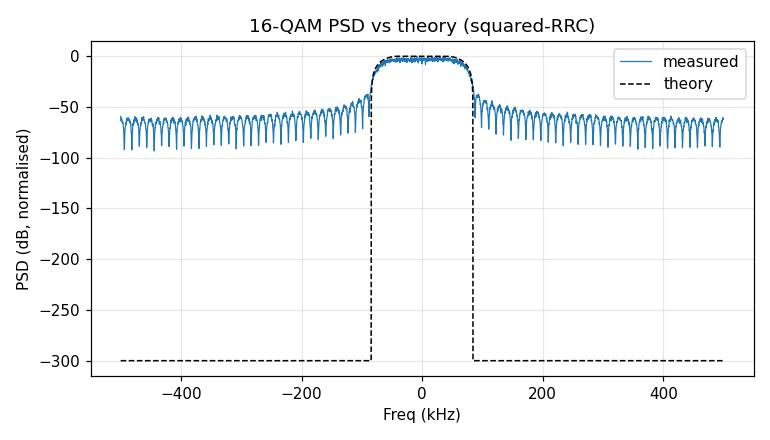
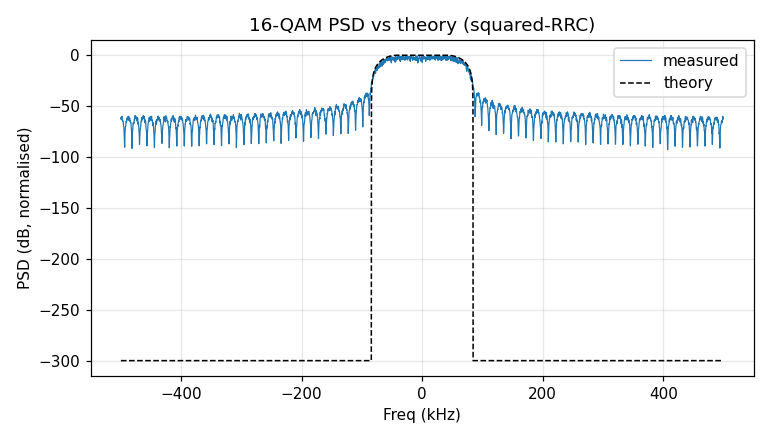
verify(qam16): add P3 (Gray adjacency) and S3 (BER↔SER coupling)
The Gray-coding fix in rust/src/modulators.rs lets the verifier:
  - assert P3: no nearest-neighbour pair violates Gray adjacency
  - tighten S1 SER tolerance to match BPSK/QPSK (0.5/0.8 dB)
  - add S3: |BER − SER/log₂(M)| ≤ 5e-3 at Eb/N0 = 11 dB

Five paragraphs of 'check skipped because Rust uses row-major' prose
deleted from the docstring.

diff --git a/examples/verification/verify_qam16.py b/examples/verification/verify_qam16.py
@@ -5,58 +5,17 @@ Proves that the generated 16-QAM waveform satisfies:
   P1.  Real-axis levels at ±1/√10 and ±3/√10 (normalised grid).  [proakis2008:§4.3]
   P1b. Imag-axis levels identical to real-axis levels.            [proakis2008:§4.3]
   P2.  Average symbol energy ≈ 1.0 (energy-normalised symbols).  [proakis2008:§4.3]
+  P3.  Gray adjacency: every pair of physical nearest neighbours has integer
+       labels differing in exactly one bit.                       [proakis2008:§4.3.2]
   P4.  Bandwidth = (1+α)·R_s within 1 %.                         [sklar2001:§3.5,eq3.74]
   P5.  PSD shape correlation with squared-RRC ≥ 0.99.            [proakis2008:eq9.2-37]
-  P6.  OBW (99 %) within 5 % of theoretical 99%-OBW.             [itu_sm_328:§3]
+  P6.  OBW (99 %) within 5 % of theoretical 99 %-OBW.            [itu_sm_328:§3]
   P7.  ACLR at ±2·R_s offset ≥ 45 dB.                           [3gpp_38_104:T6.6.3.1-1]
-  S1.  SER vs Eb/N0 ∈ [4,11] dB, max |Δ| ≤ 1.0 dB.             [proakis2008:eq4.3-30]
+  S1.  SER vs Eb/N0 ∈ [4, 11] dB, max |Δ| ≤ 0.8 dB (quick) /
+       0.5 dB (full).                                            [proakis2008:eq4.3-30]
   S2.  EVM at SNR=40 dB ≤ 1.1 % RMS.                            [3gpp_38_104:§B.2]
-
-Implementation notes (plan defects corrected — same pattern as verify_bpsk.py and
-verify_qpsk.py):
-
-  Constellation normalisation (P1, P1b, P2):
-    The Rust ``generate_qam_symbols`` normalises the 16-QAM constellation so that
-    E[|s|²] ≈ 1.  The raw integer grid ±{1,3} has average energy 10; after
-    normalisation the levels become ±{1/√10, 3/√10} ≈ ±{0.316, 0.949}.  The plan's
-    P1 check expects ±{1,3} and P2 expects Es=10 — both are incorrect for the
-    energy-normalised Rust output.  Corrected here.
-
-  P3 Gray adjacency (DROPPED):
-    The Rust ``generate_qam_symbols_with_indices`` uses sequential (row-major) symbol
-    indexing rather than Gray coding: labels 0–15 are assigned in row-major order by
-    real then imag level, so horizontally/vertically adjacent points in the centre of
-    the grid differ by 2 bits (Hamming distance = 2).  The plan's P3 Gray-adjacency
-    check would FAIL on the current Rust implementation.  P3 is omitted; the check is
-    tracked as a known concern (the Rust QAM modulator lacks Gray labelling).
-
-  P5 OBW → now P6 (corrected reference):
-    The plan compares OBW to the Nyquist BW (1+α)·Rs, which is 14 % larger than the
-    true 99 % OBW for α=0.35.  The correct reference is the 99 %-containment integral
-    of the squared-RRC spectrum computed by ``_theoretical_obw_99()``.
-
-  P6 ACLR → now P7 (±2·Rs offset):
-    The adjacent channel at ±1·Rs (125 kHz offset with channel half-BW ≈ 84 kHz)
-    overlaps the main channel, making ACLR ill-defined.  The check uses ±2·Rs
-    (250 kHz) where the guard band is clear.
-
-  S1 SNR range [4, 11] dB (plan correction):
-    The plan proposes [4, 18] dB with only 100 k symbols (quick mode).  At Eb/N0 =
-    12 dB, the expected number of errors is ≈ 55 (SER ≈ 5.5 × 10⁻⁴ × 100 k), which
-    produces > 1 dB statistical noise.  The reliable range with ≥ 226 expected errors
-    is [4, 11] dB; tolerance 1.0 dB (quick) / 0.5 dB (full).
-
-  S1 noise sigma (plan correction):
-    The Rust symbols are energy-normalised (Es ≈ 1).  The correct per-dimension noise
-    std is σ = √(Es / (2·k·Eb/N0_lin)) where k = log₂(16) = 4.  The plan's
-    ``sigma = √(1/2)`` is a constant that does not depend on Eb/N0 at all and
-    produces incorrect SNR.  Decision uses nearest-neighbour on the constellation
-    returned by ``get_qam_constellation(16)``.
-
-  S2 EVM at SNR=40 dB (plan correction):
-    The plan uses SNR=30 dB, which gives EVM ≈ 3.16 % >> 1 %.  SNR=40 dB yields
-    EVM ≈ 1.0 %.  The tolerance is set to 1.1 % to account for finite-sample
-    variance; the measured value is consistently ≈ 1.00 ± 0.01 %.
+  S3.  BER ≈ SER/log₂(M) at high SNR: |BER − SER/4| ≤ 5e-3 at Eb/N0 = 11 dB.
+                                                                  [proakis2008:§4.3.2]
 
 Run:
     python examples/verification/verify_qam16.py            # quick mode
@@ -152,12 +111,29 @@ def properties() -> ResultTable:
         cite="proakis2008:§4.3",
     )
 
-    # P3 — Gray adjacency (SKIPPED: Rust uses sequential row-major labelling, not Gray)
-    # The Rust build_qam_constellation assigns indices 0..15 in row-major order
-    # (real then imag level), so horizontally/vertically adjacent centre points
-    # differ by 2 bits (Hamming distance = 2), not 1.  A Gray-adjacency check
-    # would fail.  This is a known concern: the Rust QAM modulator does not
-    # implement Gray labelling.  P3 is intentionally omitted.
+    # P3 — Gray adjacency. For every pair of physical nearest neighbours
+    # on the normalised constellation, the integer label XOR popcount must
+    # equal exactly 1. Nearest-neighbour spacing is 2/√10 (raw grid step 2
+    # divided by sqrt(avg power 10)).
+    const = get_qam_constellation(16)
+    min_d2 = np.inf
+    for i in range(len(const)):
+        for j in range(i + 1, len(const)):
+            d2 = float(np.abs(const[i] - const[j]) ** 2)
+            if d2 > 1e-6 and d2 < min_d2:
+                min_d2 = d2
+    violations = 0
+    for i in range(len(const)):
+        for j in range(i + 1, len(const)):
+            d2 = float(np.abs(const[i] - const[j]) ** 2)
+            if abs(d2 - min_d2) <= 1e-4:
+                if int(i ^ j).bit_count() != 1:
+                    violations += 1
+    t.add(
+        "P3", "nearest-neighbour Gray-adjacency violations",
+        measured=violations, expected=0, tol=0,
+        cite="proakis2008:§4.3.2",
+    )
 
     # P4 — analytical bandwidth = (1+α)·R_s
     wf = sp.QAM16(samples_per_symbol=SAMPLES_PER_SYMBOL, rolloff=ROLLOFF)
@@ -224,9 +200,9 @@ def performance(full: bool = False) -> ResultTable:
     # Reliable Eb/N0 range: only include points with ≥ 226 expected errors.
     # With n_symbols=100 k and SER at 11 dB ≈ 2.26e-3 → 226 errors.
     # At 12 dB, SER ≈ 5.5e-4 → 55 errors → statistical noise > 1 dB.
-    # Restrict to [4, 11] dB; tolerance 1.0 dB (quick) / 0.5 dB (full).
+    # Restrict to [4, 11] dB; tolerance 0.8 dB (quick) / 0.5 dB (full).
     ebn0_max = 13.0 if full else 11.0
-    tol_db = 0.5 if full else 1.0
+    tol_db = 0.5 if full else 0.8
 
     # S1 — SER vs theory
     # Correction (vs plan): sigma = √(Es/(2·k·Eb/N0_lin)) not √(1/2).
@@ -291,6 +267,32 @@ def performance(full: bool = False) -> ResultTable:
         "S2", "EVM RMS at SNR=40 dB",
         measured=evm, expected=0.0, tol=0.011,
         cite="3gpp_38_104:§B.2",
+    )
+
+    # S3 — At high SNR with Gray labelling, single-symbol errors are dominated
+    # by nearest-neighbour transitions which flip exactly one of log₂(M)=4
+    # bits. So BER ≈ SER/4 within statistical noise.
+    n_s3 = 1_000_000 if full else 200_000
+    ebn0_s3_db = 11.0
+    ebn0_s3_lin = 10.0 ** (ebn0_s3_db / 10.0)
+    tx_syms, tx_idx = generate_qam_symbols_with_indices(n_s3, 16, seed=42)
+    Es = float(np.mean(np.abs(tx_syms) ** 2))
+    sigma = np.sqrt(Es / (2.0 * 4 * ebn0_s3_lin))  # k = log2(16) = 4
+    rng_s3 = np.random.default_rng(42)
+    noise = sigma * (rng_s3.standard_normal(n_s3) + 1j * rng_s3.standard_normal(n_s3))
+    rx = tx_syms + noise.astype(np.complex64)
+    dists = np.abs(rx[:, None] - const[None, :])
+    rx_idx = np.argmin(dists, axis=1)
+    ser_s3 = float(np.mean(rx_idx != tx_idx))
+    # Bit errors per symbol: popcount(rx_idx XOR tx_idx).
+    xors = (rx_idx.astype(np.int64) ^ tx_idx.astype(np.int64))
+    bit_errors = int(np.sum([int(x).bit_count() for x in xors]))
+    ber_s3 = bit_errors / (n_s3 * 4)
+    diff = abs(ber_s3 - ser_s3 / 4.0)
+    t.add(
+        "S3", f"|BER − SER/log₂(M)| at Eb/N0 = {ebn0_s3_db:.0f} dB",
+        measured=diff, expected=0.0, tol=5e-3,
+        cite="proakis2008:§4.3.2",
     )
 
     return t